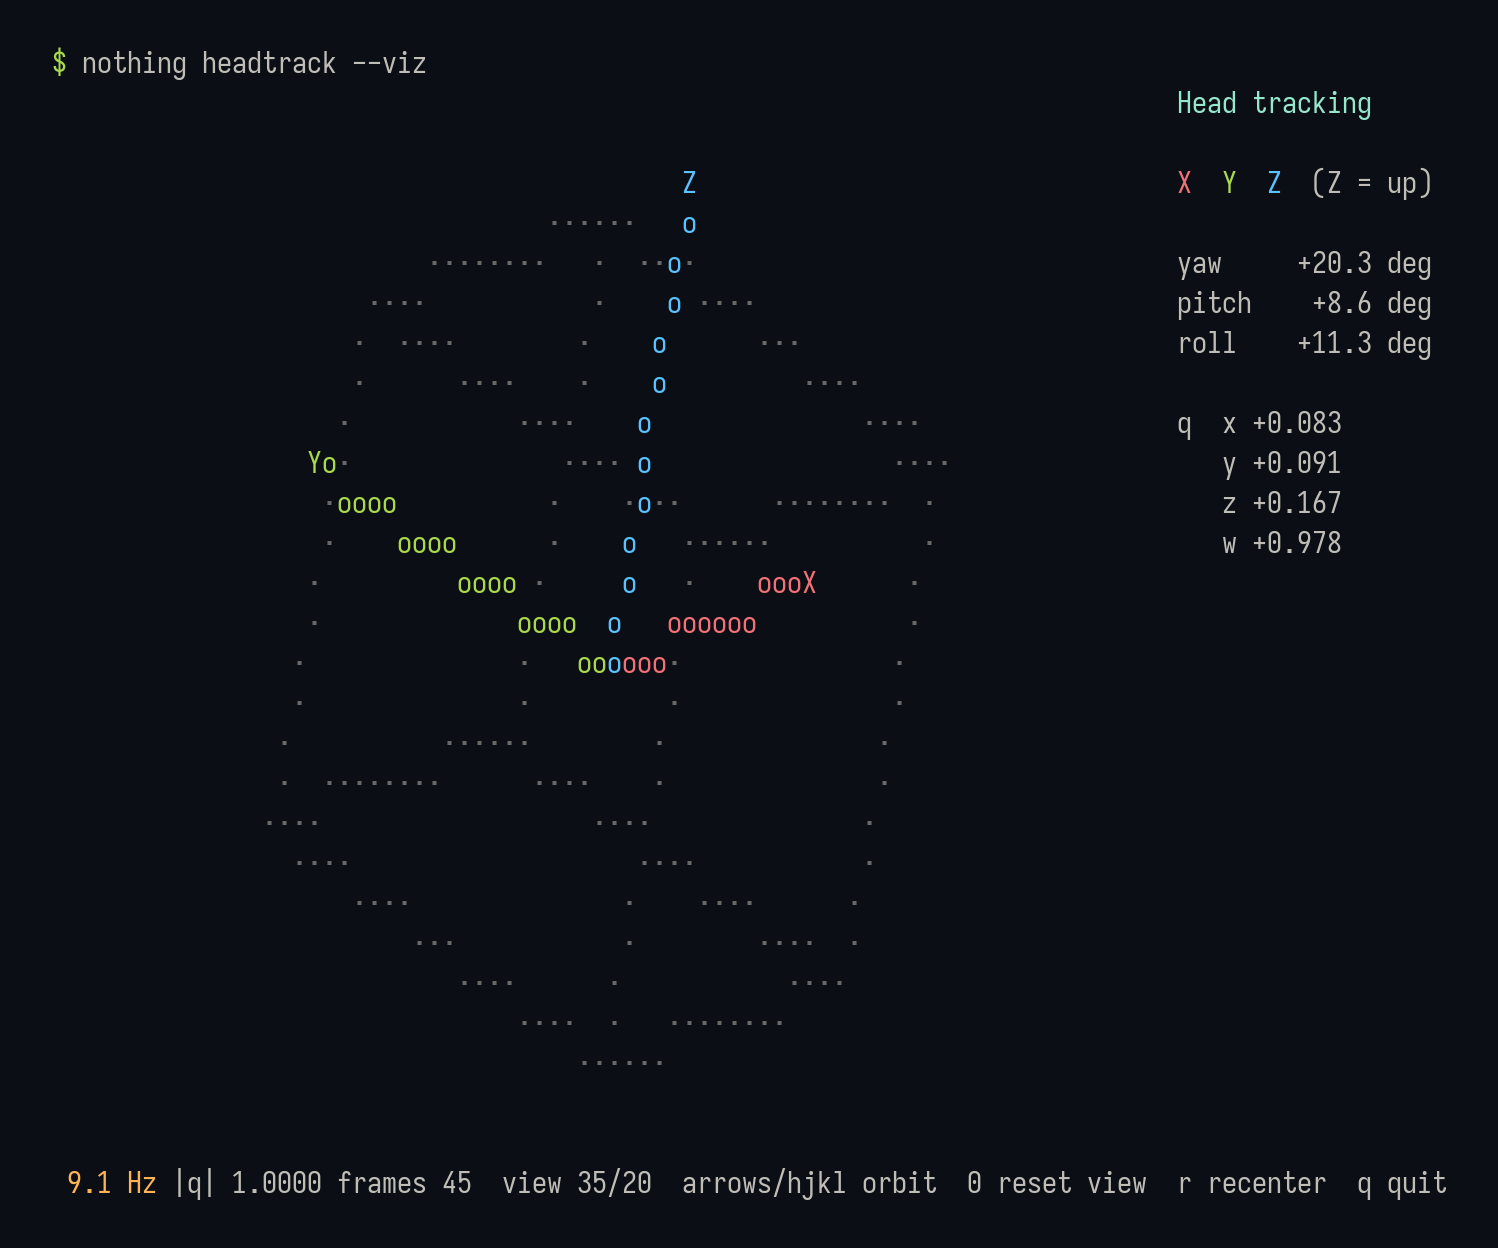
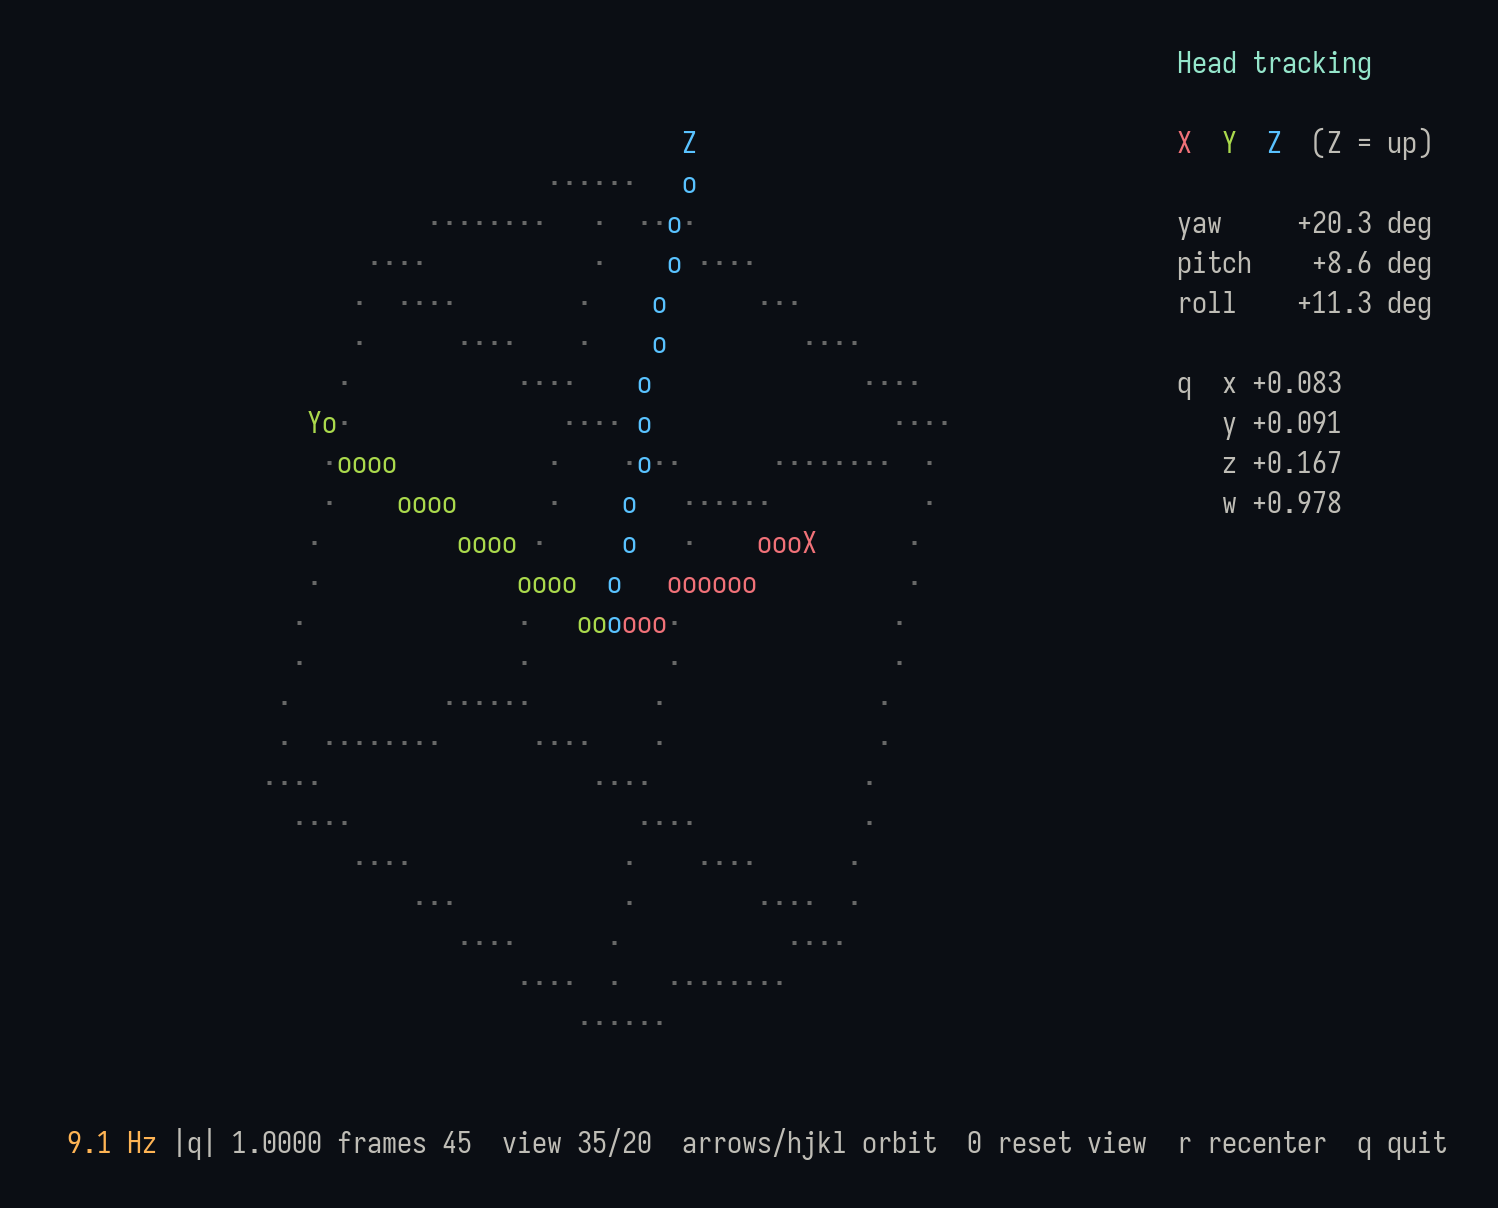
README: screenshots of eq edit, everyday commands and help; instant status-bar recipe
eq edit: 0 dB sits on a whole dot row, so a nearly flat curve no longer
hops between two text rows; the selected band's shape is drawn only
where it leaves 0 dB. render.py takes any number of captures, draws
background colours, and draws braille cells the way kitty does.

diff --git a/docs/images/render.py b/docs/images/render.py
@@ -1,13 +1,12 @@
 """Renders the README images of nothing-toolbox (PNG, drawn at 2x).
 
-    python3 render.py OUT_DIR IOSEVKA_REGULAR.ttf IOSEVKA_BOLD.ttf DOTO.ttf \
-        STATUS.ansi EQ.ansi VIZ.ansi
+    python3 render.py OUT_DIR IOSEVKA_REGULAR.ttf IOSEVKA_BOLD.ttf DOTO.ttf NAME=FILE.ansi...
 
 Needs Pillow. Fonts: Iosevka (https://github.com/be5invis/Iosevka) for all text and the
 terminal screenshots, Doto (https://github.com/oliverlalan/Doto, SIL OFL) for the title.
-The *.ansi inputs are real terminal output: `nothing status` and `nothing eq advanced`
-redirected to a file, and one frame of `nothing headtrack --viz` captured with
-`tmux capture-pane -e -p`. Each file starts with its own prompt line.
+Each NAME=FILE.ansi pair renders FILE.ansi to OUT_DIR/NAME.png. The inputs are real terminal
+output captured with `tmux capture-pane -e -p`: one-shot commands preceded by their own prompt
+line, and single frames of `nothing eq edit` and `nothing headtrack --viz`.
 
 Style: monochrome ink on paper (or paper on ink), hairline rules, uppercase mono labels,
 dot-matrix only for display, and a single red LED as the one accent. Terminal shots use
@@ -19,7 +18,8 @@ import sys
 
 from PIL import Image, ImageDraw, ImageFont
 
-OUT, IOS_R, IOS_B, DOTO, STATUS, EQ, VIZ = sys.argv[1:8]
+OUT, IOS_R, IOS_B, DOTO = sys.argv[1:5]
+SHOTS = [arg.split("=", 1) for arg in sys.argv[5:]]
 K = 2  # supersampling: every logical pixel is K device pixels
 
 # --- Shared design tokens (monochrome, one red) -----------------------------------------
@@ -250,20 +250,24 @@ OTHER = re.compile(r"\x1b\[[0-9;?]*[A-Za-z]")
 
 
 def parse_ansi(text):
-    """Returns lines of (char, color, bold)."""
+    """Returns lines of (char, color, bold, background or None)."""
     lines = []
     for raw in text.split("\n"):
-        out, color, bold, pos = [], AYU["fg"], False, 0
+        out, color, bold, bg, pos = [], AYU["fg"], False, None, 0
         raw = OTHER.sub(lambda m: m.group(0) if m.group(0).endswith("m") else "", raw)
         for m in SGR.finditer(raw):
-            out += [(c, color, bold) for c in raw[pos:m.start()]]
+            out += [(c, color, bold, bg) for c in raw[pos:m.start()]]
             pos = m.end()
             codes = [int(c) for c in m.group(1).split(";") if c] or [0]
             i = 0
             while i < len(codes):
                 c = codes[i]
                 if c == 0:
-                    color, bold = AYU["fg"], False
+                    color, bold, bg = AYU["fg"], False, None
+                elif 40 <= c <= 47:
+                    bg = AYU["pal"][c - 40]
+                elif c == 49:
+                    bg = None
                 elif c == 1:
                     bold = True
                 elif c == 22:
@@ -281,11 +285,25 @@ def parse_ansi(text):
                     color = "#%02x%02x%02x" % tuple(codes[i + 2:i + 5])
                     i += 4
                 i += 1
-        out += [(c, color, bold) for c in raw[pos:]]
+        out += [(c, color, bold, bg) for c in raw[pos:]]
         lines.append(out)
-    while lines and not any(ch.strip() for ch, _, _ in lines[-1]):
+    while lines and not any(ch.strip() for ch, _, _, _ in lines[-1]):
         lines.pop()
     return lines
+
+
+BRAILLE_DOTS = [(0, 0, 0x01), (0, 1, 0x02), (0, 2, 0x04), (1, 0, 0x08),
+                (1, 1, 0x10), (1, 2, 0x20), (0, 3, 0x40), (1, 3, 0x80)]
+
+
+def braille(d, x, y, w, h, bits, color):
+    """Draws a braille cell as kitty does: 2x4 round dots filling the whole cell, so that
+    curves drawn with them look continuous (font braille glyphs are much smaller)."""
+    r = min(w / 2, h / 4) * 0.36
+    for col, row, bit in BRAILLE_DOTS:
+        if bits & bit:
+            cx, cy = x + (col + 0.5) * w / 2, y + (row + 0.5) * h / 4
+            d.ellipse([(cx - r) * K, (cy - r) * K, (cx + r) * K, (cy + r) * K], fill=color)
 
 
 def terminal(src, name, cols=None):
@@ -302,8 +320,14 @@ def terminal(src, name, cols=None):
     img = Image.new("RGB", (W * K, H * K), AYU["bg"])
     d = ImageDraw.Draw(img)
     for row, line in enumerate(lines):
-        for col, (ch, color, bold) in enumerate(line):
+        for col, (ch, color, bold, bg) in enumerate(line):
+            if bg:
+                x, y = (pad_x + col * cell) * K, (pad_y + row * lh) * K
+                d.rectangle([x, y, x + cell * K - 1, y + lh * K - 1], fill=bg)
             if ch == " ":
+                continue
+            if 0x2800 < ord(ch) <= 0x28FF:
+                braille(d, pad_x + col * cell, pad_y + row * lh, cell, lh, ord(ch) - 0x2800, color)
                 continue
             d.text(((pad_x + col * cell) * K, (pad_y + row * lh) * K), ch, font=bld if bold else reg, fill=color)
     img.save(f"{OUT}/{name}.png", optimize=True)
@@ -312,7 +336,6 @@ def terminal(src, name, cols=None):
 for th in THEMES:
     hero(th)
     architecture(th)
-terminal(STATUS, "status")
-terminal(EQ, "eq")
-terminal(VIZ, "headtrack")
+for name, src in SHOTS:
+    terminal(src, name)
 print("ok")

diff --git a/src/eqedit.rs b/src/eqedit.rs
@@ -291,14 +291,23 @@ pub fn render(
     // Symmetric range in steps of 6 dB, at least +-12, wide enough for the whole curve.
     let extent = curve.iter().fold(0f64, |m, d| m.max(d.abs())).max(GAIN_RANGE.1 as f64);
     let range = ((extent / 6.0).ceil() * 6.0).max(12.0);
-    let y_of = |db: f64| -> usize { (((range - db) / (2.0 * range)) * (ph - 1) as f64).round() as usize };
+    // 0 dB on a whole dot row: halfway between two rows, a curve within a hair of 0 dB
+    // would hop from one text row to the other.
+    let zero = ((ph - 1) / 2) as f64;
+    let y_of = |db: f64| -> usize { (zero - db * zero / range).round() as usize };
 
     let mut curve_bits = vec![vec![0u8; w]; h];
     let mut shape_bits = vec![vec![0u8; w]; h];
-    for (samples, bits) in [(&curve, &mut curve_bits), (&shape, &mut shape_bits)] {
+    for (samples, bits, is_shape) in [(&curve, &mut curve_bits, false), (&shape, &mut shape_bits, true)] {
         let mut prev: Option<usize> = None;
         for (px, &db) in samples.iter().enumerate() {
             let py = y_of(db.clamp(-range, range));
+            // The selected band's own shape only where it leaves 0 dB: elsewhere it would
+            // underline the whole graph.
+            if is_shape && py == y_of(0.0) {
+                prev = None;
+                continue;
+            }
             // Join to the previous column so that steep slopes stay connected.
             let (a, b) = match prev {
                 Some(p) if p < py => (p + 1, py),
@@ -507,21 +516,38 @@ mod tests {
         assert_eq!(ed.handle(Key::Char('u')), Outcome::Nothing);
     }
 
+    fn visible(s: &str) -> String {
+        let mut out = String::new();
+        let mut esc = false;
+        for c in s.chars() {
+            match (esc, c) {
+                (false, '\x1b') => esc = true,
+                (true, c) if c.is_ascii_alphabetic() => esc = false,
+                (true, _) => {}
+                (false, c) => out.push(c),
+            }
+        }
+        out
+    }
+
+    #[test]
+    fn a_nearly_flat_curve_stays_on_the_zero_row() {
+        // A boost is above 0 dB everywhere, by a hair far from its centre: at 30 Hz, a band
+        // at 15 kHz must not lift the curve by a text row.
+        let row = |bands: Vec<EqBand>| {
+            let frame = visible(&render(&Editor::new(bands), 0.0, 100, 30, &[], ""));
+            frame
+                .lines()
+                .position(|l| {
+                    l.chars().nth(GUTTER + 2).is_some_and(|c| ('\u{2801}'..='\u{28ff}').contains(&c))
+                })
+                .unwrap()
+        };
+        assert_eq!(row(vec![band(1000.0, 0.0, 1.0)]), row(vec![band(15_000.0, 0.5, 2.0)]));
+    }
+
     #[test]
     fn frames_fit_the_terminal() {
-        let visible = |s: &str| {
-            let mut out = String::new();
-            let mut esc = false;
-            for c in s.chars() {
-                match (esc, c) {
-                    (false, '\x1b') => esc = true,
-                    (true, c) if c.is_ascii_alphabetic() => esc = false,
-                    (true, _) => {}
-                    (false, c) => out.push(c),
-                }
-            }
-            out
-        };
         let mut ed = Editor::new(vec![
             band(60.0, 6.0, 0.5),
             band(70.0, 6.0, 0.5),

diff --git a/README.md b/README.md
@@ -28,7 +28,7 @@ diagnostic logs. No phone, no app, no account.
 |---|---|
 | **Noise control** | high, mid, low, adaptive, off, transparency, and a toggle made for a keyboard shortcut |
 | **Status** | battery, worn / playing state, codec, EQ, spatial audio, low latency, multipoint… one command, or JSON |
-| **Sound** | EQ presets, and an advanced EQ you can edit band by band or load from a file (AutoEQ format too); bass boost, spatial audio, low-latency mode |
+| **Sound** | EQ presets, and an advanced EQ with an interactive editor in the terminal (you hear each change as you make it), band-by-band edits, or curves loaded from a file (AutoEQ format too); bass boost, spatial audio, low-latency mode |
 | **Events** | live feed of what the headset pushes (battery, worn or not, noise mode, button…); turn the headset's button into a Linux button |
 | **Head tracking** | the headset's orientation sensor as a quaternion stream, or as a live 3D view in your terminal |
 | **Controls** | remap the button and the wheel without the phone app |
@@ -39,13 +39,23 @@ diagnostic logs. No phone, no app, no account.
 ## A look at it
 
 <p align="center">
+  <img src="docs/images/eq-edit.png" alt="nothing eq edit: the response curve of a 7-band EQ drawn in the terminal, the selected band highlighted in red, the band list on the right" width="100%">
+  <br><sub><code>nothing eq edit</code>: the curve on the headset, redrawn and sent as you move the bands.</sub>
+</p>
+
+<p align="center">
   <img src="docs/images/status.png" alt="nothing status output" width="49%">
-  <img src="docs/images/eq.png" alt="nothing eq advanced output" width="49%">
+  <img src="docs/images/commands.png" alt="nothing anc get, battery, eq get, controls get and codec get, one after the other" width="45%">
 </p>
 
 <p align="center">
   <img src="docs/images/headtrack.png" alt="nothing headtrack --viz: a live 3D gnomon following the head" width="85%">
   <br><sub><code>nothing headtrack --viz</code>, following a real head at 9 frames per second.</sub>
+</p>
+
+<p align="center">
+  <img src="docs/images/help.png" alt="nothing -h: the list of commands and global options" width="85%">
+  <br><sub>Every command, from <code>nothing -h</code>. Each one has its own <code>--help</code>, with examples.</sub>
 </p>
 
 ## Install
@@ -176,15 +186,37 @@ reports to. Bind the button back with `nothing controls set button press
 noise-anc-transparency`. Checked on a B170; with a button bound to noise control, a press only
 reports the new noise mode.
 
-**Battery in a status bar.** Waybar:
+**Noise mode and battery in a status bar.** A Waybar module that reads the headset every
+minute, and on signal 11:
 
 ```json
 "custom/headphone": {
-  "exec": "nothing battery",
-  "interval": 120,
+  "exec": "printf '%s %s' \"$(nothing anc get)\" \"$(nothing battery)\"",
+  "interval": 60,
+  "signal": 11,
   "format": "🎧 {}"
 }
 ```
+
+Send the signal after your own changes, and the bar follows the key at once:
+
+```sh
+nothing anc toggle && pkill -RTMIN+11 waybar
+```
+
+A change made on the headset itself (its button, the phone app) only shows at the next
+minute: the headset announces it (event `E003`), but only to a client holding the channel.
+For an instant update, keep `nothing watch` running and let it wake the bar:
+
+```sh
+nothing watch | grep --line-buffered NOISE_REDUCTION_LEVEL_CHANGED \
+  | while read -r _; do pkill -RTMIN+11 waybar; done
+```
+
+While it runs, `watch` owns the channel, so the module's reads go through it instead of
+reconnecting. Checked on a B170: the event reached the end of that pipeline about 20 ms after
+the mode changed. No event is sent when a mode is set to the value it already has. The
+trade-off is the one of any permanent owner, described above.
 
 **Your own EQ curve.** The advanced EQ takes up to 8 peaking bands. `nothing eq edit` draws
 the response in the terminal and sends each change to the headset as you make it: arrows move

diff --git a/CHANGELOG.md b/CHANGELOG.md
@@ -9,6 +9,8 @@
   commands (the ANC key) keep working. Tested on a B170: a change sent and read back, read
   through the socket by a second command, undone with `u`, and sent when quitting right after a
   key.
+- README: screenshots of the editor, of everyday commands and of the help; a status-bar recipe
+  that updates as soon as the headset changes mode (`watch` piped into a Waybar signal).
 
 ## 0.2.0 — 2026-10-15
 
